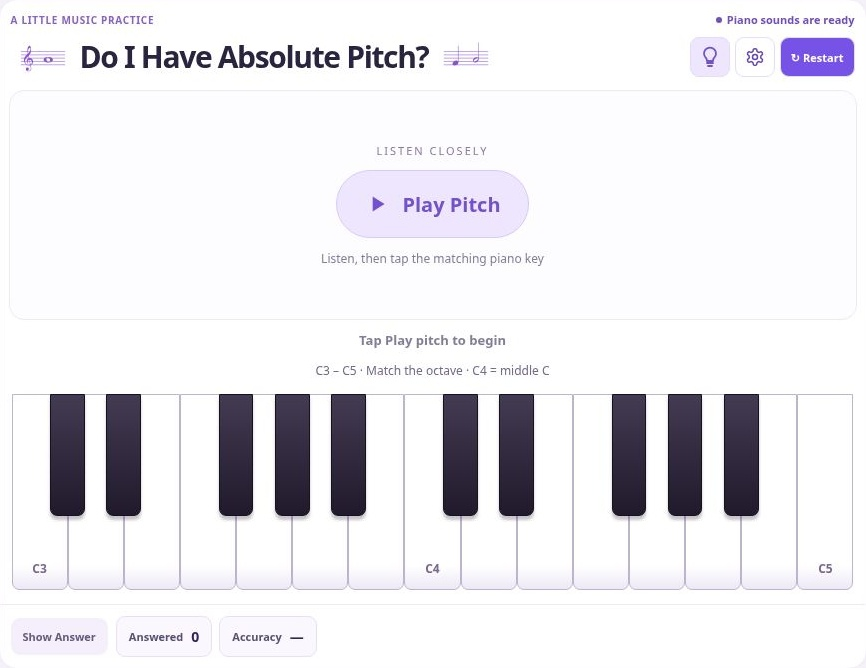
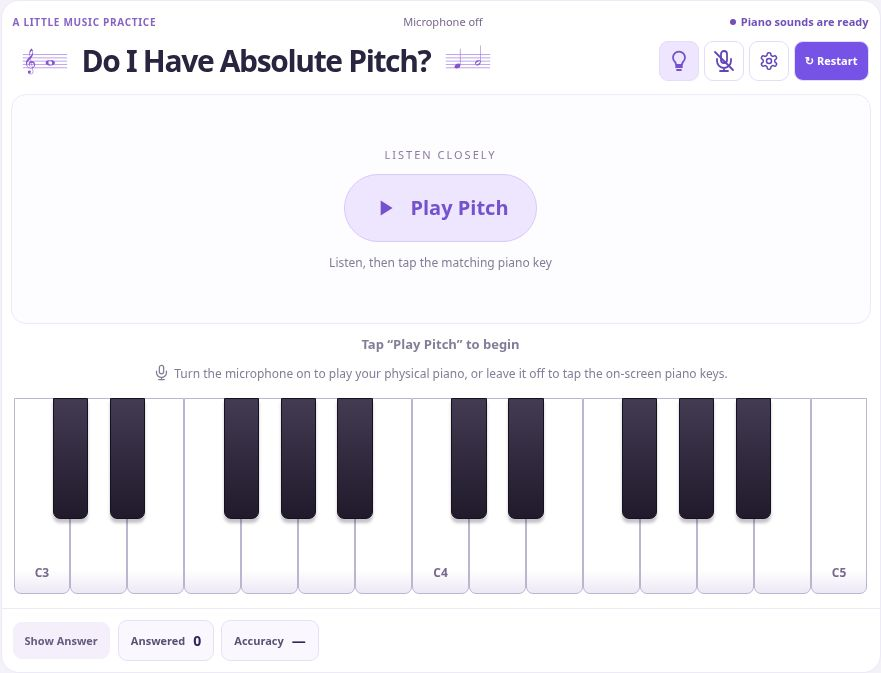
Add physical piano answers to Absolute Pitch with shared capture and sensitivity
Refresh game screenshot and describe optional Music Box microphone input in Privacy.

diff --git a/games/do-i-have-absolute-pitch/game.js b/games/do-i-have-absolute-pitch/game.js
@@ -2,7 +2,8 @@
 (()=>{'use strict';
 const root=document.getElementById('npx');if(root.dataset.ready)return;root.dataset.ready='1';
 const $=id=>root.querySelector('#'+id);
-const init={range:'middle',hints:true,selectedByRange:{
+const pianoInput=window.ArcadePianoInput;
+const init={range:'middle',hints:true,sensitivity:pianoInput.defaultSensitivity,selectedByRange:{
  lower:Array.from({length:25},(_,i)=>36+i),middle:Array.from({length:25},(_,i)=>48+i),upper:Array.from({length:25},(_,i)=>60+i)
 }};
 const practiceSettings=window.ArcadeSettings.create({
@@ -22,7 +23,7 @@ const practiceSettings=window.ArcadeSettings.create({
   }
   const range=['middle','upper','lower'].includes(value.range)?value.range:defaults.range;
   if(!selectedByRange[range].length)selectedByRange[range]=[...defaults.selectedByRange[range]];
-  return {range,
+  return {range,sensitivity:Object.hasOwn(pianoInput.sensitivityThresholds,value.sensitivity)?value.sensitivity:defaults.sensitivity,
    hints:typeof value.hints==='boolean'?value.hints:defaults.hints,selectedByRange};
  }
 });
@@ -30,7 +31,39 @@ let cfg=practiceSettings.load(),draft,q,bag=[],last=null,total=0,correct=0,judge
 const attempts=new Set();
 const motion=createMotion();
 const audio=window.ArcadeMusicAudio.create({root,isEnabled:()=>true,getQuestion:()=>q,onStateChange:renderPianoState});
-const keys=window.PlayThatNoteKeyboard.create({container:$('npxletters'),onAnswer:answer});
+const keys=window.PlayThatNoteKeyboard.create({container:$('npxletters'),onAnswer:m=>{if(!pianoMode)answer(m)}});
+let pianoMode=false,micActive=false,acceptMic=false,speakerBusy=false,micTimer,micError='';
+const inputButton=document.createElement('button');inputButton.id='pitchinput';inputButton.className='npx-icon-button';
+const microphoneIcon='<rect x="9" y="2" width="6" height="12" rx="3"/><path d="M5 10v2a7 7 0 0 0 14 0v-2M12 19v3M8 22h8"/>';
+$('npxsettings').before(inputButton);
+const micStatus=document.createElement('span');micStatus.className='pitch-input-status';micStatus.setAttribute('role','status');micStatus.setAttribute('aria-live','polite');
+$('npxpianoState').before(micStatus);
+const inputHint=document.createElement('p');inputHint.className='pitch-input-hint';
+inputHint.innerHTML='<svg viewBox="0 0 24 24" width="17" height="17" fill="none" stroke="currentColor" stroke-width="1.8" stroke-linecap="round" stroke-linejoin="round" aria-hidden="true">'+microphoneIcon+'</svg>Turn the microphone on to play your physical piano, or leave it off to tap the on-screen piano keys.';
+$('npxmsg').after(inputHint);
+const privacy=document.createElement('p');privacy.className='pitch-privacy';privacy.innerHTML='<strong>Privacy:</strong> Microphone audio is processed entirely on your device. It is never recorded, stored, or uploaded to a server.';root.after(privacy);
+const sensitivityHeading=document.createElement('h3');sensitivityHeading.textContent='Microphone sensitivity';
+const sensitivityOptions=document.createElement('div');sensitivityOptions.className='npx-sounds';sensitivityOptions.setAttribute('role','group');sensitivityOptions.setAttribute('aria-label','Microphone sensitivity');
+const micHelp=document.createElement('p');micHelp.className='pitch-input-help';micHelp.textContent='Play one note at a time. Higher sensitivity hears quieter notes and more background noise. Microphone audio stays on your device.';
+$('npxloadpanel').before(sensitivityHeading,sensitivityOptions,micHelp);
+const mic=pianoInput.create({minRms:pianoInput.sensitivityThresholds[cfg.sensitivity],
+ onState:(state,detail)=>{micActive=state==='listening';if(state==='error'){pianoMode=false;acceptMic=false;micError=detail||'Microphone unavailable. Please try again.'}inputUI()},
+ onNote:p=>{if(pianoMode&&micActive&&acceptMic&&!speakerBusy&&!locked&&heard&&$('npxshade').hidden)answer(p.midi)}
+});
+function inputUI(){
+ inputButton.setAttribute('aria-label',pianoMode?'Turn microphone off':'Turn microphone on');inputButton.setAttribute('aria-pressed',String(pianoMode));
+ inputButton.innerHTML='<svg class="npx-icon-roomy" viewBox="0 0 24 24" fill="none" stroke="currentColor" stroke-width="1.8" stroke-linecap="round" stroke-linejoin="round" aria-hidden="true">'+microphoneIcon+(!pianoMode?'<path d="M3 3l18 18"/>':'')+'</svg>';
+ for(const key of $('npxletters').children)key.disabled=pianoMode||locked;
+ micStatus.textContent=micError||(!pianoMode?'Microphone off':speakerBusy?'Listening paused during playback':micActive?'Microphone on':'Starting microphone…');
+}
+function inputPrompt(){return pianoMode?'Play the matching piano key on your own piano':'Tap the matching piano key below'}
+function pauseAnswers(){clearTimeout(micTimer);acceptMic=false;mic.reset()}
+function resumeAnswers(){pauseAnswers();if(!speakerBusy&&!document.hidden&&$('npxshade').hidden){acceptMic=true;mic.reset()}inputUI()}
+inputButton.onclick=()=>{
+ micError='';pauseAnswers();mic.stop();pianoMode=!pianoMode;inputUI();
+ if(pianoMode){mic.start();if(!speakerBusy)resumeAnswers()}
+ if(heard&&!locked&&!speakerBusy)message(inputPrompt());
+};
 function bounds(c=cfg){return c.range==='lower'?[36,60]:c.range==='upper'?[60,84]:[48,72]}
 function candidates(c=cfg){return [...c.selectedByRange[c.range]]}
 function keyboardPitches(c=cfg){const [lo,hi]=bounds(c);return Array.from({length:hi-lo+1},(_,i)=>lo+i)}
@@ -79,7 +112,7 @@ function startMotion(){
  const fade=motion.ripple.animate([{opacity:0,offset:0},{opacity:.72,offset:.04},{opacity:.52,offset:.35},{opacity:.2,offset:.7},{opacity:0,offset:1}],options);
  motionAnimations.push(fade);fade.finished.then(()=>{if(ticket===playback)endMotion()}).catch(()=>{});
 }
-function stop(){pending=false;playback++;endMotion();audio.stop()}
+function stop(){pending=false;playback++;pauseAnswers();speakerBusy=false;endMotion();audio.stop();inputUI()}
 function playPitch(){
  if(!$('npxshade').hidden)return;
  started=true;stop();
@@ -89,13 +122,16 @@ function playPitch(){
   audio.prepare(keyboardPitches(),q.m);return;
  }
  const question=q,ticket=playback;
+ speakerBusy=true;pauseAnswers();inputUI();
  startMotion();
  audio.play(q.m,()=>{
   if(q!==question||ticket!==playback)return;
+  // Keep the capture session alive for iPad, but ignore speaker audio and its tail.
   q.played=true;pitchButton();
+  micTimer=setTimeout(()=>{if(q!==question||ticket!==playback)return;speakerBusy=false;resumeAnswers()},350);
  });
  heard=true;
- if(!locked)message('Tap the matching piano key');
+ if(!locked)message(inputPrompt());
 }
 function pitchButton(){
  $('pitchlabel').textContent=q.played?'Replay Pitch':'Play Pitch';
@@ -104,10 +140,11 @@ function pitchButton(){
 function next(){
  clearTimeout(timer);stop();locked=judged=heard=false;attempts.clear();lastAttempt=null;q={m:pitch(),played:false};
  const [lo,hi]=bounds();keys.render(lo,hi);
- $('npxkeyhint').textContent=keys.name(lo)+' – '+keys.name(hi)+' · Match the octave · C4 = middle C';
+ mic.reset();inputUI();
+ $('npxkeyhint').hidden=true;
  $('npxreveal').disabled=false;$('npxnext').hidden=true;pitchButton();
- $('pitchhint').textContent='Listen, then tap the matching piano key';
- message(started?'Listen to the new pitch':'Tap Play pitch to begin');
+ $('pitchhint').textContent=pianoMode?'Listen, then play the matching piano key on your own piano':'Listen, then tap the matching piano key';
+ message(started?'Listen to the new pitch':'Tap “Play Pitch” to begin');
  if(started)playPitch();
 }
 function restart(){clearTimeout(timer);started=false;total=correct=0;bag=[];last=null;$('npxnum').textContent='0';$('npxacc').textContent='—';next()}
@@ -118,10 +155,10 @@ function canAnswer(){
 }
 function answer(m){
  if(!canAnswer())return;
- stop();audio.play(m);
+ stop();if(!pianoMode)audio.play(m);else resumeAnswers();
  const ok=m===q.m;grade(ok);
  if(!ok){attempts.add(m);lastAttempt=m;showHint(m);return}
- locked=true;keys.lock(m,'good');message('✓ '+keys.name(q.m)+' — correct!','good');
+ locked=true;pauseAnswers();keys.lock(m,'good');inputUI();message('✓ '+keys.name(q.m)+' — correct!','good');
  $('npxreveal').disabled=true;$('npxnext').hidden=false;timer=setTimeout(next,1600);
 }
 $('pitchplay').onclick=playPitch;
@@ -152,6 +189,8 @@ function choices(id,items,field){
  b.onclick=()=>{draft[field]=value;settings()};container.append(b)}
 }
 function settings(){
+ sensitivityOptions.replaceChildren();
+ for(const {id,label} of pianoInput.sensitivityOptions){const b=document.createElement('button');b.textContent=label;b.className=draft.sensitivity===id?'active':'';b.setAttribute('aria-pressed',String(draft.sensitivity===id));b.onclick=()=>{draft.sensitivity=id;settings()};sensitivityOptions.append(b)}
  choices('pitchranges',[['lower','C2–C4'],['middle','C3–C5'],['upper','C4–C6']],'range');
  renderSelection();renderPianoState();
 }
@@ -180,8 +219,8 @@ $('pitchselectall').onclick=()=>{draft.selectedByRange[draft.range]=keyboardPitc
 $('pitchselectwhite').onclick=()=>{draft.selectedByRange[draft.range]=keyboardPitches(draft).filter(m=>![1,3,6,8,10].includes(m%12));renderSelection()};
 $('pitchselectblack').onclick=()=>{draft.selectedByRange[draft.range]=keyboardPitches(draft).filter(m=>[1,3,6,8,10].includes(m%12));renderSelection()};
 $('pitchselectnone').onclick=()=>{draft.selectedByRange[draft.range]=[];renderSelection()};
-function closeSettings(){ $('npxshade').hidden=true;pending=false;$('npxsettings').focus?.() }
-$('npxsettings').onclick=()=>{clearTimeout(timer);stop();draft=copySettings(cfg);$('npxshade').hidden=false;settings();$('npxclose').focus?.()};
+function closeSettings(){ $('npxshade').hidden=true;pending=false;if(pianoMode)mic.start();resumeAnswers();if(locked)timer=setTimeout(next,1600);$('npxsettings').focus?.() }
+$('npxsettings').onclick=()=>{clearTimeout(timer);stop();mic.stop();draft=copySettings(cfg);$('npxshade').hidden=false;settings();$('npxclose').focus?.()};
 $('npxclose').onclick=closeSettings;
 $('npxreset').onclick=()=>{draft=copySettings(init);settings()};
 $('npxapply').onclick=()=>{
@@ -189,7 +228,7 @@ $('npxapply').onclick=()=>{
   const status=$('pitchselectionstatus');status.setAttribute('role','alert');status.classList.add('pitch-selection-error');
   status.textContent='Please select at least one note before saving.';return;
  }
- stop();cfg=copySettings(draft);practiceSettings.save(cfg);closeSettings();hintControl();restart();preparePiano()};
+ stop();cfg=copySettings(draft);mic.setThreshold(pianoInput.sensitivityThresholds[cfg.sensitivity]);practiceSettings.save(cfg);closeSettings();hintControl();restart();preparePiano()};
 $('npxretry').onclick=()=>{audio.retry(keyboardPitches());message('Retrying piano sounds…')};
 function renderPianoState(){
  const status=audio.readiness(keyboardPitches()),state=status.state;
@@ -204,7 +243,9 @@ function renderPianoState(){
 }
 function preparePiano(){audio.prepare(keyboardPitches(),q.m)}
 // Pause pending automatic playback when the app goes into the background.
-document.addEventListener('visibilitychange',()=>{if(document.hidden){clearTimeout(timer);stop()}});
+function suspendInput(){clearTimeout(timer);stop();pianoMode=false;mic.stop();inputUI()}
+document.addEventListener('visibilitychange',()=>{if(document.hidden)suspendInput()});
+window.addEventListener('pagehide',suspendInput);
 root.addEventListener('keydown',e=>{if(e.key==='Escape'&&!$('npxshade').hidden)closeSettings()});
 hintControl();restart();renderPianoState();preparePiano();
 })();

diff --git a/privacy.html b/privacy.html
@@ -41,7 +41,7 @@
     </div>
     <h2>Optional microphone input</h2>
     <div class="box">
-    <p><strong>Piano Note Finder</strong> and <strong>Play That Note!</strong> offer optional microphone input. Permission is requested only when you tap Listen or turn on the microphone. Sound is analyzed live on your device to estimate a single note. These games do not record, save, or upload audio, and do not send detected notes or microphone levels to analytics. Tap Stop, turn off the microphone, or leave the page to stop microphone access.</p>
+    <p>Some games in the <strong>Music Box</strong> offer optional microphone input. Permission is requested only when you tap Listen or turn on the microphone. Sound is analyzed live on your device to estimate a single note. These games do not record, save, or upload audio, and do not send detected notes or microphone levels to analytics. Tap Stop, turn off the microphone, or leave the page to stop microphone access.</p>
     </div>
     <p>Questions about privacy? <a href="mailto:mingzou.cn@gmail.com">Email us</a>.</p>
   </main>

diff --git a/index.html b/index.html
@@ -140,7 +140,7 @@
       </article>
 
       <article class="card">
-        <a class="thumb" href="games/do-i-have-absolute-pitch/index.html"><div class="thumbFrame"><img src="assets/absolute-pitch-preview.jpg?v=249564ed44c2" style="object-fit:contain" alt="Screenshot of Do I Have Absolute Pitch? with the Play Pitch button and piano keyboard" /></div></a>
+        <a class="thumb" href="games/do-i-have-absolute-pitch/index.html"><div class="thumbFrame"><img src="assets/absolute-pitch-preview.jpg?v=ecfd5af4020c" style="object-fit:contain" alt="Screenshot of Do I Have Absolute Pitch? with the Play Pitch button and piano keyboard" /></div></a>
         <div class="body">
           <div class="name">🎶 Do I Have Absolute Pitch?</div>
           <div class="desc">Listen to a piano pitch, then tap the matching key. Replay, use optional hints, and choose the notes you want to practice!</div>

diff --git a/games/do-i-have-absolute-pitch/pitch.css b/games/do-i-have-absolute-pitch/pitch.css
@@ -30,3 +30,9 @@
 #pitchselection button.selected:after{content:'✓';position:absolute;top:10px;left:0;right:0;text-align:center;font-size:15px;color:#503077}
 
 #pitchselectionstatus.pitch-selection-error{color:#b73751;font-weight:650}
+.npx #pitchinput[aria-pressed="true"]{background:#7653e6;color:white;border-color:#7653e6}
+.npx .pitch-input-status,.npx .pitch-input-help{font-size:12px;line-height:1.6;color:#847d97}
+.npx .pitch-input-status{font-size:11px;color:#78698d}
+.npx .pitch-input-hint{margin:0 14px 12px;text-align:center;color:#847d97;font-size:12px;line-height:1.6}
+.npx .pitch-input-hint svg{vertical-align:-3px;margin-right:4px}
+.pitch-privacy{max-width:880px;box-sizing:border-box;margin:0 auto;padding:4px 18px 20px;color:#78698d;font:12px/1.6 ui-rounded,system-ui,-apple-system,sans-serif}

diff --git a/games/do-i-have-absolute-pitch/index.html b/games/do-i-have-absolute-pitch/index.html
@@ -22,6 +22,7 @@ OR IN CONNECTION WITH THE USE OR PERFORMANCE OF THIS SOFTWARE.
 
 <script src="../../shared/music/audio.js"></script>
 <script src="../../shared/music/keyboard.js"></script>
+<script src="../../shared/music/piano-input.js?v=mic-config-2"></script>
 <link rel="stylesheet" href="pitch.css">
 <script src="game.js"></script>
 <script src="../../analytics/config.js"></script>

diff --git a/games/do-i-have-absolute-pitch/README.md b/games/do-i-have-absolute-pitch/README.md
@@ -36,7 +36,28 @@ All keys in the window are loaded so unselected wrong keys also produce audio.
 Audio credits and loading/retry controls are available in Settings.
 
 Direct entry: games/do-i-have-absolute-pitch/index.html. The homepage includes a 1 Player card with a real browser screenshot in `assets/absolute-pitch-preview.jpg`, captured from the deployed game in its initial Play Pitch state and cropped to the game panel only (no surrounding page background or return button). The thumbnail uses contain sizing to keep the title, keyboard and score visible.
-Physical piano/microphone answer recognition remains a future extension.
+Listen to the mystery pitch, then match its note and octave. Tap the on-screen
+keyboard, or enable the microphone icon to answer with a physical piano.
+Play one note at a time. Hints retain the same low/high/correct colors in both modes.
+
+Capture and detection use `shared/music/piano-input.js`, including its iPad
+AudioSession handling and shared Low/Standard/High sensitivity options. Settings
+save the sensitivity locally; microphone capture always requires an explicit click
+after reload or returning from the background. Audio is processed on the device.
+
+During mystery playback, microphone notes are ignored. Capture stays alive to
+preserve the iPad audio session, but grading resumes only after the current audio
+completion callback plus a 350 ms acoustic-tail guard. Replay and navigation cancel
+stale callbacks. Physical-piano guesses do not produce duplicate speaker sounds.
+Settings pause capture; page hiding stops it and returns to touch input.
+
+Run `node scripts/test_absolute_pitch.cjs` and
+`node scripts/test_absolute_pitch_microphone.cjs` from the repository root.
+The microphone regression uses simulated capture events; verify permission,
+speaker replay rejection, repeated notes, black keys, octaves, sensitivity and
+background cleanup on a real iPad with a piano before release. The fixed tail guard
+does not guarantee rejection of prolonged room reverberation; use headphones if needed.
+
 
 Validation:
 
@@ -44,6 +65,7 @@ Validation:
 python3 scripts/check_site.py
 node scripts/test_settings.cjs
 node scripts/test_absolute_pitch.cjs
+node scripts/test_absolute_pitch_microphone.cjs
 node scripts/test_play_that_note.cjs
 node scripts/test_music_modules.cjs
 node scripts/test_name_that_note_audio.cjs

diff --git a/README.md b/README.md
@@ -17,7 +17,7 @@ A family-made collection of touch-friendly browser games for kids and grown-ups.
 | [Name That Note!](games/name-that-note/) | Identify notes shown on a musical staff. |
 | [Play That Note!](games/play-that-note/) | Find the displayed note on a piano keyboard. |
 | [Piano Note Finder](games/piano-note-finder/) | Play one real piano note and see its name, octave, frequency and microphone level. |
-| [Do I Have Absolute Pitch?](games/do-i-have-absolute-pitch/) | Hear a pitch and choose the matching piano key. |
+| [Do I Have Absolute Pitch?](games/do-i-have-absolute-pitch/) | Hear a pitch and answer using the on-screen keyboard or a real piano through the microphone. |
 | [Find the Pair!](games/find-the-pair/) | Spot the one matching picture on two cards and collect 10 stars. |
 
 ## Homepage collections
@@ -81,6 +81,7 @@ node scripts/test_music_modules.cjs
 node scripts/test_name_that_note_audio.cjs
 node scripts/test_play_that_note.cjs
 node scripts/test_absolute_pitch.cjs
+node scripts/test_absolute_pitch_microphone.cjs
 node scripts/test_piano_input.cjs
 node scripts/test_piano_note_finder.cjs
 node scripts/test_audio_session_capture.cjs
